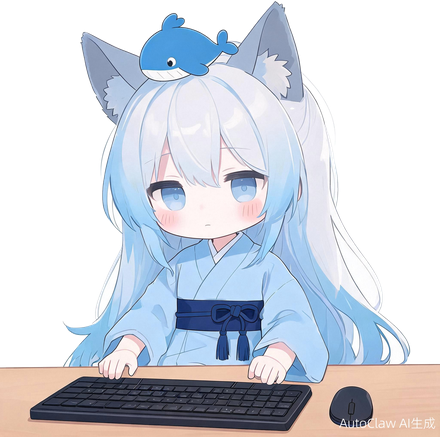
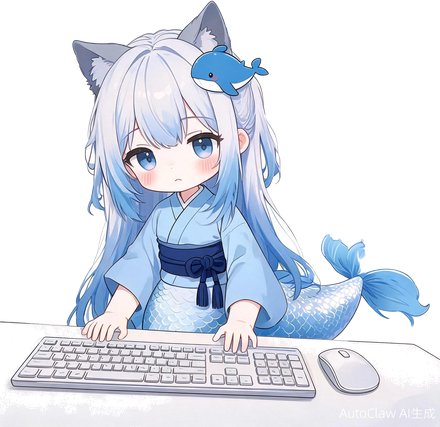
v6.72：场景图 v2（构图改进，人物63-74%）+ 代码层显示缩放72%补偿（人物显示控制在合理比例，键盘清晰可见）

diff --git a/desktop_pet.py b/desktop_pet.py
@@ -799,8 +799,8 @@ class _VkeyPanel(QWidget):
         p.fillRect(self.rect(), QColor(0, 0, 0, 0))
         sp = self.scene_pixmap()
         if sp and not sp.isNull():
-            # 保持宽高比缩放（不拉伸变形），水平居中
-            scaled = sp.scaled(self.width(), self.height(), Qt.KeepAspectRatio, Qt.SmoothTransformation)
+            # 保持宽高比缩放到窗口 72% 高度（补偿生成图人物偏大），水平居中
+            scaled = sp.scaled(self.width(), int(self.height() * 0.72), Qt.KeepAspectRatio, Qt.SmoothTransformation)
             p.drawPixmap((self.width() - scaled.width()) // 2, 0, scaled)
         p.end()
 
